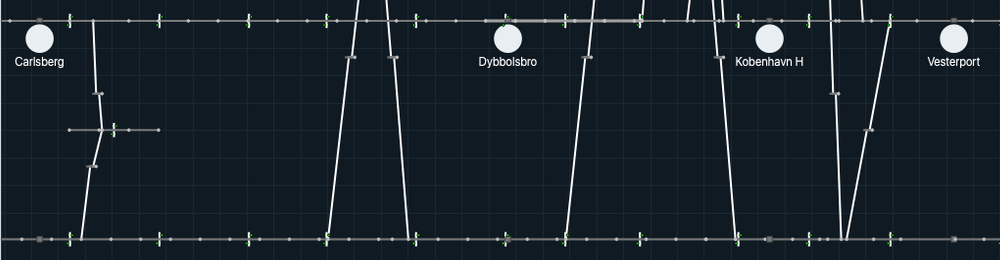
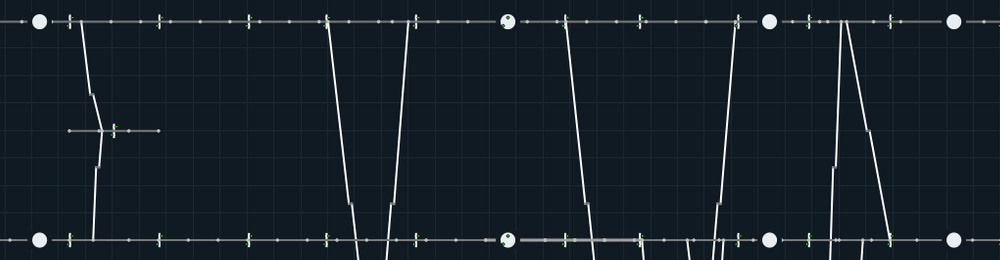
Retake the current frames of the renderer comparison

diff --git a/docs/architecture/historical-track-comparison.md b/docs/architecture/historical-track-comparison.md
@@ -99,20 +99,20 @@ requests that made the change, or the issue where none did.
 These differences come from the canonical scenes or from the historical input,
 not from the renderer, and are not on the list above.
 
-- Paimpol: the current frames show a siding above the line at Pontrieaux, with
+- Paimpol: the current build draws a siding above the line at Pontrieaux, with
   signals of its own, joined to the main line by a diagonal connection at each
-  end. The reference frames of the same line show the main line only. The
-  Paimpol historical blank mainline level and Guingamp anchor mismatch remain
-  excluded layout and data differences.
+  end. The current Fit frame shows it as a short second row above the line; in
+  the detail frame it lies above the top edge. The reference frames of the same
+  line show the main line only. The Paimpol historical blank mainline level and
+  Guingamp anchor mismatch remain excluded layout and data differences.
 - Copenhagen: the reference frame draws one line where the current frame draws
   two parallel rows joined by crossovers. Canonical geometry draws every authored
   segment except the first and last arc of the 137 four-node tracks that
   `views.json` marks as double switches, which the reference also leaves out.
 - Netherlands: the reference frame draws a single line where the current frame
-  draws doubled tracks, stations beside them and crossovers. The reference
-  build `472d0b5` opens this case without trains and draws only part of the
-  polyline, so the pair uses `f138134`, the same renderer with a repaired
-  Netherlands case.
+  draws doubled tracks and crossovers. The reference build `472d0b5` opens this
+  case without trains and draws only part of the polyline, so the pair uses
+  `f138134`, the same renderer with a repaired Netherlands case.
 
 ## Preview and runtime infrastructure
 
@@ -196,7 +196,7 @@ show the same extent. The zoom given for a pair is the zoom of the window before
 the crop, so a frame can show the network larger or smaller than the window did,
 and the sizes in a Fit frame and in a detail frame are not in the ratio of their
 zooms. The reference builds are `472d0b5` and, for the Netherlands, `f138134`.
-The current build is main `946ee7eb`. Both builds zoom by 1.15 per click. The
+The current build is main `bf005f2b`. Both builds zoom by 1.15 per click. The
 zoom label of the current build is the ratio to its own Fit scale. The reference
 build has no zoom label, so its zoom is the number of zoom-in clicks from Fit.
 The reference build fits the scene rectangle and the current build fits the
@@ -215,16 +215,17 @@ them.
 
 ![Paimpol at Fit in the current build](images/paimpol-fit-current.png)
 
-Reference build `472d0b5` above, current build main `946ee7eb` below. Scene
+Reference build `472d0b5` above, current build main `bf005f2b` below. Scene
 Paimpol at Fit in both builds, so the whole line shows, with Guingamp at the left
 end and Paimpol at the right end. The positions of the ten stations agree within
 about 0.5 percent of the frame width.
 
-In the symbols, the current frame draws a light disc with a dark halo and a
-readable name for each station and hides the name of Pontrieaux_Halte where it
-overlaps the name of Pontrieaux, while the reference frame has no station mark
-and names too small to read. In the geometry, the siding at Pontrieaux shows in
-the current frame only, as a short second row under the line.
+In the symbols, the current frame draws a roundel, a ring with a blue bar, above
+the line on the faint blue area of each station, and a readable name under the
+line. It hides the name of Pontrieaux_Halte where it overlaps the name of
+Pontrieaux. The reference frame has no station mark and names too small to read.
+In the geometry, the siding at Pontrieaux shows in the current frame only, as a
+short second row above the line.
 
 ### Paimpol at detail
 
@@ -232,16 +233,22 @@ the current frame only, as a short second row under the line.
 
 ![Paimpol at detail in the current build](images/paimpol-detail-current.png)
 
-Reference build `472d0b5` above, current build main `946ee7eb` below. Scene
+Reference build `472d0b5` above, current build main `bf005f2b` below. Scene
 Paimpol, 16 zoom-in clicks from Fit (zoom label 9.4x in the current build), then
 10 arrow-key presses in both builds. Pontrieaux_Halte and Pontrieaux stand at the
-same x in both frames, and the signals, node dots and station squares line up.
+same x in both frames, and the line, its signals and its node dots line up within
+1 px.
 
-In the symbols, the current frame adds a light disc above each name, draws the
-names larger because the minimum name size applies at this zoom, and writes
-Pontrieaux_Halte without the space after the underscore that the reference frame
-draws. In the geometry, the siding below the line at Pontrieaux, with its
-diagonal connection and its signals, is in the current frame only.
+In the symbols, the current frame draws a light dot with a dark halo on each
+station square. The dot covers the square, and at Pontrieaux also the post of the
+signal beside it, so only the green heads of that signal show. The current frame
+writes each name under its dot, larger because the minimum name size applies at
+this zoom, and writes Pontrieaux_Halte without the space after the underscore
+that the reference frame draws. In the geometry, the current build draws the
+siding at Pontrieaux above the line, beyond the top edge of this frame: only the
+foot of its left diagonal connection shows. The reference frame draws three
+signals on the line right of that connection, at the x positions of the signals
+of the siding.
 
 ### Copenhagen junction
 
@@ -249,13 +256,16 @@ diagonal connection and its signals, is in the current frame only.
 
 ![Copenhagen junction in the current build](images/copenhagen-junction-current.png)
 
-Reference build `472d0b5` above, current build main `946ee7eb` below. Scene
+Reference build `472d0b5` above, current build main `bf005f2b` below. Scene
 Copenhagen, 22 zoom-in clicks from Fit (zoom label 21.6x in the current build),
-then 10 arrow-key presses in both builds. Carlsberg, Dybbolsbro, Kobenhavn H and
-Vesterport stand at the same x in both frames, within 3 px.
+then 10 presses of the right arrow key in both builds and, in the current build,
+6 of the down arrow key, because its two rows start lower in the window.
+Carlsberg, Dybbolsbro, Kobenhavn H and Vesterport stand at the same x in both
+frames, within 3 px.
 
-In the symbols, the current frame adds a light disc above each name and draws the
-names larger because the minimum name size applies at this zoom. In the
+In the symbols, the current frame draws a light dot with a dark halo on each
+station square of both rows. The names of these stations stand under their
+lowest square, below the frame, so the current frame shows no name. In the
 geometry, the reference frame draws one line, with signals at more x positions
 than either current row, where the current frame draws two parallel rows joined
 by crossovers. The signals of both current rows stand at x positions where the
@@ -267,18 +277,20 @@ reference line has a signal.
 
 ![Netherlands stretch in the current build](images/netherlands-stretch-current.png)
 
-Reference build `f138134` above, current build main `946ee7eb` below. Scene
+Reference build `f138134` above, current build main `bf005f2b` below. Scene
 Netherlands, 6 zoom-in clicks from Fit (zoom label 2.3x in the current build).
 The landmarks are the track corner at Ndb, the corner between Hvsm and Hvsp and
 the corner at Brn, which agree within about 20 px in the 500 px frames. This is
 the loosest match of the pairs, because the current case has doubled tracks.
 
-In the symbols, the current frame draws a light disc at each station and a name
-at all but one, at the bend between Hvsm and Hvsp, and the mainline track in grey
+In the symbols, the current frame draws a roundel, a ring with a blue bar, on the
+tracks at each station, with the name off the tracks: above the mark at Ndb and
+Brn, and beside it at Bsmz, Hvsm, Hvs and Hvsp. The name of Sd shows in the
+lower right corner, with its mark below the frame. The mainline track is grey
 (160,160,160), and the reference frame has no readable station label. In the
-geometry, the current frame draws doubled tracks, stations beside them and
-crossovers where the reference frame draws a single line, with one short extra
-segment at the corner between Hvsm and Hvsp.
+geometry, the current frame draws doubled tracks and crossovers where the
+reference frame draws a single line, with one short extra segment at the corner
+between Hvsm and Hvsp.
 
 ### Assignment corridor
 
@@ -289,20 +301,24 @@ shown.
 
 ![Assignment corridor at detail in the current build](images/assignment-detail-current.png)
 
-Current build main `946ee7eb`, scene Assignment_Gvc_Gdg_Ut. The first frame is at
-Fit with the stations Gvc, Gdg and Ut, and the two parallel mainline tracks of the
-corridor, grey (160,160,160), read as one band. The second frame is 10 zoom-in
-clicks from Fit (zoom label 4x), around Gdg, and shows the two tracks apart, with
-a signal on each track at regular intervals.
+Current build main `bf005f2b`, scene Assignment_Gvc_Gdg_Ut. The first frame is
+at Fit with the stations Gvc, Gdg and Ut, each a roundel, a ring with a blue bar,
+above the line with its name under it, and the two parallel mainline tracks of
+the corridor, grey (160,160,160), read as one band. The second frame is 10
+zoom-in clicks from Fit (zoom label 4x), around Gdg, and shows the two tracks
+apart, with a signal on each track at regular intervals. The tracks are 9 px
+apart there, less than the 12 px at which the dots replace the roundel, so Gdg
+keeps its roundel above the upper track and its name under the lower one.
 
 ### What the captures show and do not show
 
-- The reference frames show the station names and no station mark, so the discs
-  of the current frames have no counterpart in them. At Fit the names in the
-  reference frames are too small to read, where the current build keeps the
-  frame of the station mark at least 24 px and the name at least 12 px high.
-- The names are larger in the current detail frames than in the reference frames
-  at the same extent. The current build draws a name at least 12 px high.
+- The reference frames show the station names and no station mark, so the
+  roundels and dots of the current frames have no counterpart in them. At Fit
+  the names in the reference frames are too small to read, where the current
+  build keeps the frame of the station mark at least 24 px and the name at least
+  12 px high.
+- The names are larger in the current Paimpol detail frame than in the reference
+  frame at the same extent. The current build draws a name at least 12 px high.
 - The current frames have the `#101a22` background and its grid, the reference
   frames a black background.
 - In both Paimpol detail frames a signal has a white post and base and a green
